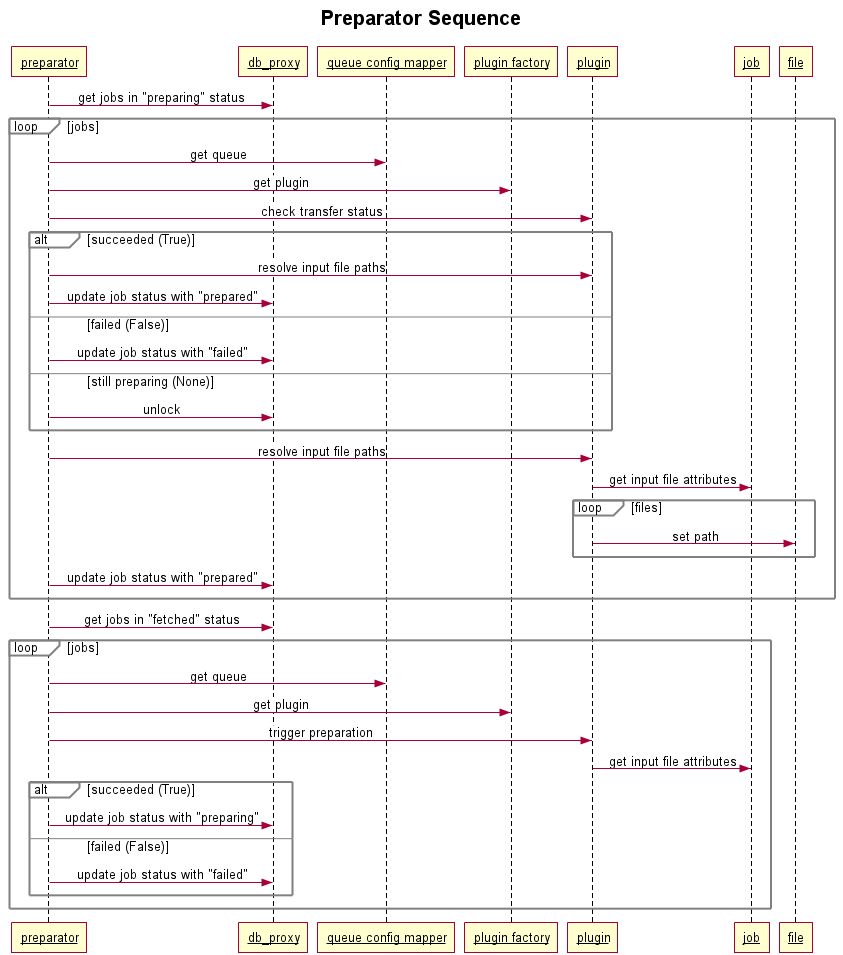
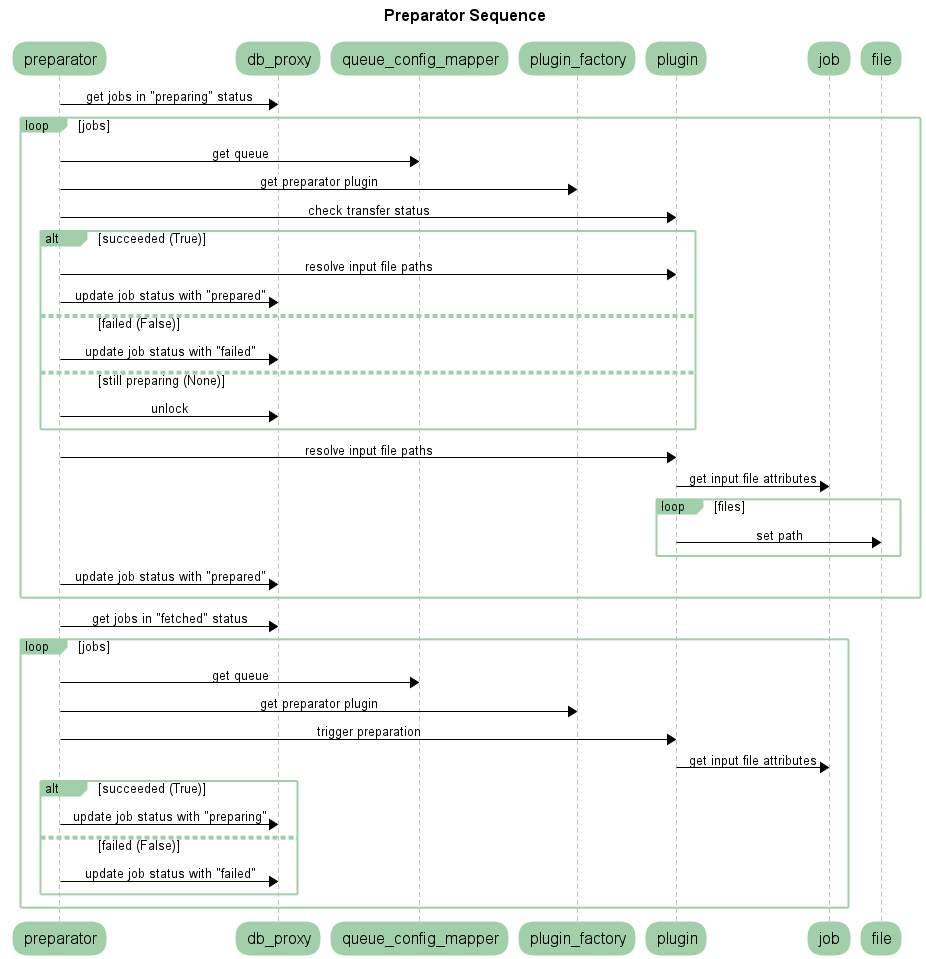
added sequence diagrams

Changed region(s): [[0.0, 0.0, 1.0, 1.0], [0.8636, 0.0304, 0.987, 0.0911], [0.586, 0.7288, 0.6168, 0.7592]]

diff --git a/pandaharvester/harvestercore/db_proxy.py b/pandaharvester/harvestercore/db_proxy.py
@@ -378,7 +378,7 @@ class DBProxy:
             for queueName in panda_queue_list:
                 queueConfig = queue_config_mapper.get_queue(queueName)
                 if queueConfig is not None:
-                    # check if alrady exist
+                    # check if already exist
                     sqlC = "SELECT 1 FROM {0} ".format(pandaQueueTableName)
                     sqlC += "WHERE queueName=:queueName "
                     varMap = dict()
@@ -714,73 +714,73 @@ class DBProxy:
             # get logger
             tmpLog = core_utils.make_logger(_logger)
             tmpLog.debug('start')
-            retMap = {}
+            retMap = dict()
+            siteName = None
+            # sql to get a site
+            sqlS = "SELECT siteName FROM {0} ".format(pandaQueueTableName)
+            sqlS += "WHERE submitTime IS NULL OR submitTime<:timeLimit "
+            sqlS += "ORDER BY submitTime "
+            sqlS += "FOR UPDATE "
             # sql to get queues
-            sqlQ = "SELECT queueName,nQueueLimitWorker,maxWorkers FROM {0} ".format(pandaQueueTableName)
-            sqlQ += "WHERE submitTime IS NULL OR submitTime<:timeLimit "
-            sqlQ += "ORDER BY submitTime "
-            sqlQ += "FOR UPDATE "
+            sqlQ = "SELECT queueName FROM {0} ".format(pandaQueueTableName)
+            sqlQ += "WHERE siteName=:siteName "
             # sql to count nQueue
             sqlN = "SELECT status,count(*) FROM {0} ".format(workTableName)
             sqlN += "WHERE computingSite=:computingSite GROUP BY status "
             # sql to update timestamp
             sqlU = "UPDATE {0} SET submitTime=:submitTime ".format(pandaQueueTableName)
             sqlU += "WHERE queueName=:queueName "
-            # get queues
+            # get sites
             timeNow = datetime.datetime.utcnow()
             varMap = dict()
             varMap[':timeLimit'] = timeNow - datetime.timedelta(seconds=interval)
-            self.execute(sqlQ, varMap)
-            resQ = self.cur.fetchall()
-            for queueName, nQueueLimit, maxWorkers in resQ:
-                # count nQueue
+            self.execute(sqlS, varMap)
+            resS = self.cur.fetchone()
+            if resS is not None:
+                # get queues
+                siteName, = resS
                 varMap = dict()
-                varMap[':computingSite'] = queueName
-                self.execute(sqlN, varMap)
-                nQueue = 0
-                nReady = 0
-                nRunning = 0
-                for workerStatus, tmpNum in self.cur.fetchall():
-                    if workerStatus in [WorkSpec.ST_submitted]:
-                        nQueue += tmpNum
-                    elif workerStatus in [WorkSpec.ST_ready]:
-                        nReady += tmpNum
-                    elif workerStatus in [WorkSpec.ST_running]:
-                        nRunning += tmpNum
-                # include ready workers
-                nWorkers = nReady
-                # new workers
-                if nQueueLimit > 0 and nQueue >= nQueueLimit:
-                    # only ready workers since enough queued workers are there
-                    pass
-                elif maxWorkers > 0 and (nQueue + nReady + nRunning) >= maxWorkers:
-                    # only ready workers since enough workers are there
-                    pass
-                else:
-                    # add new workers
-                    nWorkers += min(max(nQueueLimit - nQueue, 0), max(maxWorkers - nQueue + nReady + nRunning, 0))
-                # add
-                retMap[queueName] = {'nWorkers': nWorkers,
-                                     'nReady': nReady}
-                # update timestamp
-                varMap = dict()
-                varMap[':queueName'] = queueName
-                varMap[':submitTime'] = timeNow
-                self.execute(sqlU, varMap)
-                # enough queues
-                if len(retMap) >= n_queues:
-                    break
+                varMap[':siteName'] = siteName
+                self.execute(sqlQ, varMap)
+                resQ = self.cur.fetchall()
+                for queueName, in resQ:
+                    # count nQueue
+                    varMap = dict()
+                    varMap[':computingSite'] = queueName
+                    self.execute(sqlN, varMap)
+                    nQueue = 0
+                    nReady = 0
+                    nRunning = 0
+                    for workerStatus, tmpNum in self.cur.fetchall():
+                        if workerStatus in [WorkSpec.ST_submitted]:
+                            nQueue += tmpNum
+                        elif workerStatus in [WorkSpec.ST_ready]:
+                            nReady += tmpNum
+                        elif workerStatus in [WorkSpec.ST_running]:
+                            nRunning += tmpNum
+                    # add
+                    retMap[queueName] = {'nReady': nReady,
+                                         'nRunning': nRunning,
+                                         'nQueue': nQueue}
+                    # update timestamp
+                    varMap = dict()
+                    varMap[':queueName'] = queueName
+                    varMap[':submitTime'] = timeNow
+                    self.execute(sqlU, varMap)
+                    # enough queues
+                    if len(retMap) >= n_queues:
+                        break
             # commit
             self.commit()
             tmpLog.debug('got {0}'.format(str(retMap)))
-            return retMap
+            return retMap, siteName
         except:
             # roll back
             self.rollback()
             # dump error
             core_utils.dump_error_message(_logger)
             # return
-            return {}
+            return {}, None
 
     # get job chunks to make workers
     def get_job_chunks_for_workers(self, queue_name, n_workers, n_ready, n_jobs_per_worker, n_workers_per_job,
@@ -1700,7 +1700,7 @@ class DBProxy:
             self.commit()
             if resJ is None:
                 return None
-            # make job
+            # make spec
             cacheSpec = CacheSpec()
             cacheSpec.pack(resJ)
             tmpLog.debug('done')

diff --git a/pandaharvester/harvesterbody/worker_assigner.py b/pandaharvester/harvesterbody/worker_assigner.py
@@ -1,0 +1,82 @@
+import copy
+
+from pandaharvester.harvestercore import core_utils
+from pandaharvester.harvestercore.db_proxy import DBProxy
+from pandaharvester.harvestercore.plugin_factory import PluginFactory
+
+# logger
+_logger = core_utils.setup_logger()
+
+
+# class to define number of workers to submit
+class WorkerAssigner:
+    # constructor
+    def __init__(self, queue_config_mapper):
+        self.queueConfigMapper = queue_config_mapper
+        self.pluginFactory = PluginFactory()
+        self.dbProxy = DBProxy()
+
+    # define number of workers to submit based on various information
+    def define_num_workers(self, static_num_workers, site_name):
+        tmpLog = core_utils.make_logger(_logger, 'site={0}'.format(site_name))
+        tmpLog.debug('start')
+        dyn_num_workers = copy.copy(static_num_workers)
+        try:
+            # get queue status
+            queueStat = self.dbProxy.get_cache("panda_queues.json", None)
+            if queueStat is None:
+                queueStat = dict()
+            else:
+                queueStat = queueStat.data
+            # define num of new workers
+            for queueName, tmpVal in static_num_workers.iteritems():
+                # set 0 to num of new workers when the queue is disabled
+                if queueName in queueStat and queueStat[queueName]['status'] in ['offline']:
+                    dyn_num_workers[queueName]['nNewWorker'] = 0
+                    continue
+                # get queue
+                queueConfig = self.queueConfigMapper.get_queue(queueName)
+                nQueue = tmpVal['nQueue']
+                nReady = tmpVal['nReady']
+                nRunning = tmpVal['nRunning']
+                nQueueLimit = queueConfig.nQueueLimitWorker
+                maxWorkers = queueConfig.maxWorkers
+                qrWorkerRatio = queueConfig.qrWorkerRatio
+                # define num of new workers based on static site config
+                nNewWorkers = 0
+                if nQueueLimit > 0 and nQueue >= nQueueLimit:
+                    # enough queued workers
+                    pass
+                elif maxWorkers > 0 and (nQueue + nReady + nRunning) >= maxWorkers:
+                    # enough workers in the system
+                    pass
+                elif qrWorkerRatio > 0 and nRunning > 0 and nQueue > qrWorkerRatio * nRunning / 100:
+                    # enough workers in terms of Running-to-Queued ratio
+                    pass
+                else:
+                    # get max number of queued workers
+                    maxQueuedWorkers = 0
+                    if nQueueLimit > 0:
+                        maxQueuedWorkers = nQueueLimit
+                    if qrWorkerRatio > 0 and nRunning > 0:
+                        maxQueuedWorkers = max(maxQueuedWorkers, qrWorkerRatio * nRunning / 100)
+                    if maxQueuedWorkers == 0:
+                        # use default value
+                        maxQueuedWorkers = 1
+                    # new workers
+                    nNewWorkers = min(max(maxQueuedWorkers - nQueue, 0),
+                                      max(maxWorkers - nQueue - nReady - nRunning, 0))
+                dyn_num_workers[queueName]['nNewWorker'] = nNewWorkers
+            # correction for global shares
+            # TO BE IMPLEMENTED
+            # correction based on commands from PanDA
+            # TO BE IMPLEMENTED
+            # correction based on resource information
+            # TO BE IMPLEMENTED : need plugin?
+            # dump
+            tmpLog.debug('defined {0}'.format(str(dyn_num_workers)))
+            return dyn_num_workers
+        except:
+            # dump error
+            core_utils.dump_error_message(tmpLog)
+            return dyn_num_workers

diff --git a/pandaharvester/harvesterbody/submitter.py b/pandaharvester/harvesterbody/submitter.py
@@ -7,6 +7,7 @@ from pandaharvester.harvestercore.db_proxy import DBProxy
 from pandaharvester.harvestercore.plugin_factory import PluginFactory
 from pandaharvester.harvesterbody.agent_base import AgentBase
 from pandaharvester.harvesterbody.worker_maker import WorkerMaker
+from pandaharvester.harvesterbody.worker_assigner import WorkerAssigner
 
 # logger
 _logger = core_utils.setup_logger()
@@ -20,6 +21,7 @@ class Submitter(AgentBase):
         self.queueConfigMapper = queue_config_mapper
         self.dbProxy = DBProxy()
         self.workerMaker = WorkerMaker()
+        self.workerAssigner = WorkerAssigner(queue_config_mapper)
         self.pluginFactory = PluginFactory()
 
 
@@ -29,15 +31,17 @@ class Submitter(AgentBase):
         while True:
             mainLog = core_utils.make_logger(_logger, 'id={0}'.format(lockedBy))
             mainLog.debug('getting queues to submit workers')
-            # get queues to submit workers
-            nWorkersPerQueue = self.dbProxy.get_queues_to_submit(harvester_config.submitter.nQueues,
-                                                                 harvester_config.submitter.lookupTime)
-            mainLog.debug('got {0} queues'.format(len(nWorkersPerQueue)))
+            # get queues associated to a site to submit workers
+            curWorkersPerQueue, siteName = self.dbProxy.get_queues_to_submit(harvester_config.submitter.nQueues,
+                                                                             harvester_config.submitter.lookupTime)
+            mainLog.debug('got {0} queues for site {1}'.format(len(curWorkersPerQueue), siteName))
+            # define number of new workers
+            nWorkersPerQueue = self.workerAssigner.define_num_workers(curWorkersPerQueue, siteName)
             # loop over all queues
             for queueName, tmpVal in nWorkersPerQueue.iteritems():
                 tmpLog = core_utils.make_logger(_logger, 'queue={0}'.format(queueName))
                 tmpLog.debug('start')
-                nWorkers = tmpVal['nWorkers']
+                nWorkers = tmpVal['nNewWorker'] + tmpVal['nReady']
                 nReady = tmpVal['nReady']
                 # check queue
                 if not self.queueConfigMapper.has_queue(queueName):

diff --git a/pandaharvester/harvestertest/basicTest.py b/pandaharvester/harvestertest/basicTest.py
@@ -1,4 +1,6 @@
 import os
+import sys
+import logging
 import datetime
 from pandaharvester.harvesterconfig import harvester_config
 from pandaharvester.harvestercore.db_proxy import DBProxy
@@ -9,6 +11,16 @@ try:
     os.remove(harvester_config.db.database_filename)
 except:
     pass
+
+for loggerName, loggerObj in logging.Logger.manager.loggerDict.iteritems():
+    if loggerName.startswith('panda.log'):
+        if len(loggerObj.handlers) == 0:
+            continue
+        if loggerName.split('.')[-1] in ['db_proxy']:
+            continue
+        stdoutHandler = logging.StreamHandler(sys.stdout)
+        stdoutHandler.setFormatter(loggerObj.handlers[0].formatter)
+        loggerObj.addHandler(stdoutHandler)
 
 queueConfigMapper = QueueConfigMapper()
 

diff --git a/pandaharvester/harvestercore/queue_config_mapper.py b/pandaharvester/harvestercore/queue_config_mapper.py
@@ -13,6 +13,8 @@ class QueueConfig:
         self.mapType = WorkSpec.MT_OneToOne
         self.useJobLateBinding = False
         self.zipPerMB = None
+        self.siteName = ''
+        self.qrWorkerRatio = 0
 
 
 # mapper
@@ -33,7 +35,7 @@ class QueueConfigMapper:
                 if not os.path.exists(confFilePath):
                     confFilePath = None
             # look into /etc/panda
-            if confFilePath == None:
+            if confFilePath is None:
                 confFilePath = os.path.join('/etc/panda',
                                             harvester_config.qconf.configFile)
         # load config from json

diff --git a/pandaharvester/harvesterbody/master.py b/pandaharvester/harvesterbody/master.py
@@ -114,6 +114,8 @@ class Master:
         ##################
         # loop on stop event to be interruptable since thr.join blocks signal capture in python 2.7
         while True:
+            if self.singleMode:
+                break
             self.stopEvent.wait(1)
             if self.stopEvent.is_set():
                 break

diff --git a/pandaharvester/harvestercore/panda_queue_spec.py b/pandaharvester/harvestercore/panda_queue_spec.py
@@ -14,6 +14,7 @@ class PandaQueueSpec(SpecBase):
                            'maxWorkers:integer',
                            'jobFetchTime:timestamp',
                            'submitTime:timestamp',
+                           'siteName:text'
                            )
 
     # constructor

diff --git a/README.md b/README.md
@@ -264,21 +264,57 @@ $ source activate harvester
 ### State diagrams
 
 * Job state diagram  
-![alt text](images/Harvester_Job_Stat.png "Job state diagram")  
+![alt text](images/Stat_Job.png "Job state diagram")  
 
 
 * Worker state diagram  
-![alt text](images/Harvester_Worker_Stat.png "Worker state diagram")  
+![alt text](images/Stat_Worker.png "Worker state diagram")  
 
 
 * File state diagram  
-![alt text](images/Harvester_File_Stat.png "File state diagram")  
+![alt text](images/Stat_File.png "File state diagram")  
 
 
 * Event state diagram  
-![alt text](images/Harvester_Event_Stat.png)  
+![alt text](images/Stat_Event.png)  
 
 
+----------
+
+### Sequence diagrams for agents
+
+* CredManager  
+![alt text](images/Seq_CredManager.png)  
+  
+  
+* EventFeeder 
+![alt text](images/Seq_EventFeeder.png)  
+  
+  
+* JobFetcher
+![alt text](images/Seq_JobFetcher.png)  
+  
+  
+* Monitor  
+![alt text](images/Seq_Monitor.png)  
+  
+  
+* Preparator
+![alt text](images/Seq_Preparator.png)  
+  
+  
+* Propagator  
+![alt text](images/Seq_Propagator.png)  
+  
+  
+* Stager  
+![alt text](images/Seq_Stager.png)  
+  
+  
+* Submitter
+![alt text](images/Seq_Submitter.png)  
+  
+  
 ----------
 
 ### Plug-in descriptions
